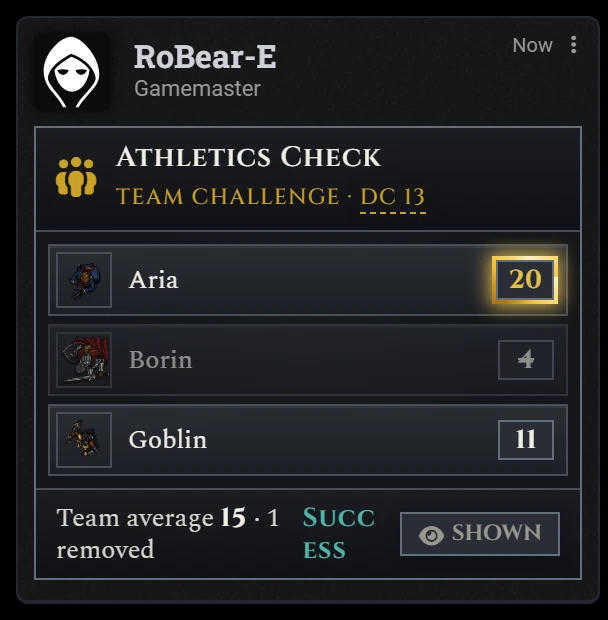
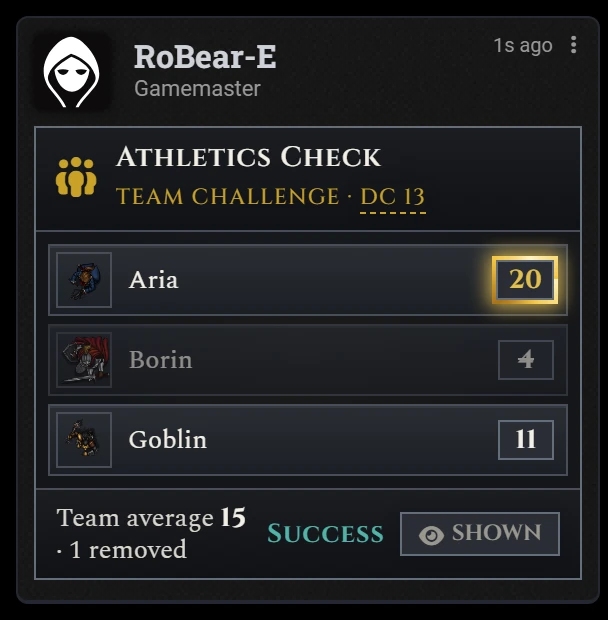
Keep "Success" whole on the GM's request card
Chat lets text break anywhere, so beside the Show to players button a Team
Challenge's result was squeezed until "Success" broke across two lines. The
result now breaks only between words, and the average beside it wraps
instead. An end-to-end test checks no word of the result is split, and the
guide's screenshot is retaken.

Changed region(s): [[0.4375, 0.7968, 0.625, 0.9194], [0.0938, 0.8581, 0.3125, 0.9194], [0.8125, 0.0613, 0.9062, 0.0919]]

diff --git a/styles/roll-requests.css b/styles/roll-requests.css
@@ -546,6 +546,10 @@
   color: var(--cc-bright);
   font-family: var(--cc-font-heading);
   letter-spacing: 0.04em;
+  /* Chat lets text break anywhere, so beside the GM's button the result was squeezed until "Success" broke in two.
+     It breaks only between words, and the text beside it wraps instead. */
+  overflow-wrap: normal;
+  word-break: normal;
 }
 
 :is(.chat-message, .robear-request-popup) .robear-request-summary.success > strong {

diff --git a/CHANGELOG.md b/CHANGELOG.md
@@ -2,6 +2,14 @@
 
 All notable changes to RoBear-E.
 
+## Unreleased
+
+### Fixed
+
+- **"Success" stays in one piece on the GM's request card.** Beside the Show to players button, a Team Challenge's
+  result was squeezed until "Success" broke across two lines. The result now breaks only between words, and the
+  average beside it wraps instead.
+
 ## 2.1.0
 
 ### New
